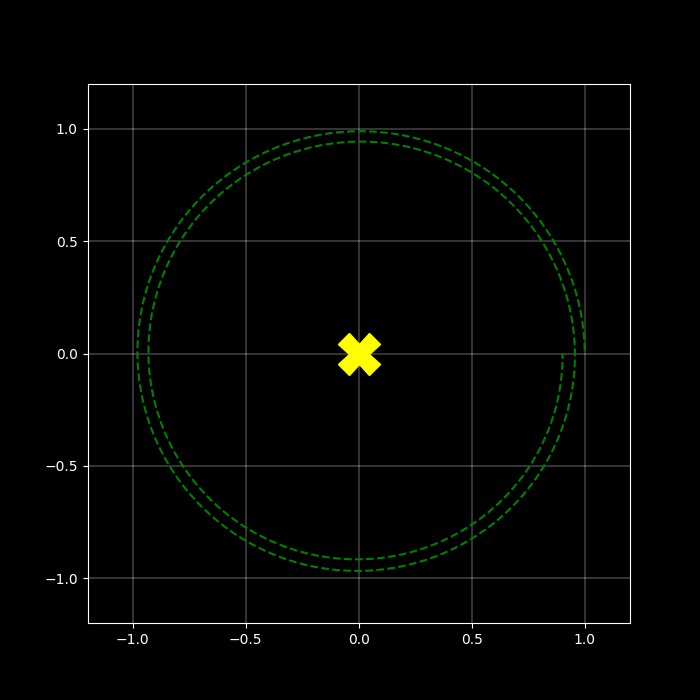
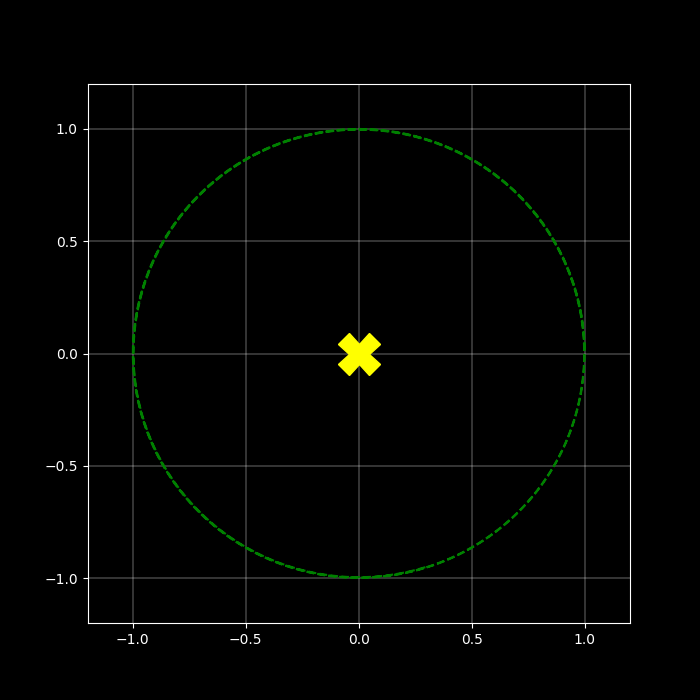
changed initial conditions

diff --git a/circular_orbit.py b/circular_orbit.py
@@ -4,7 +4,7 @@
 
 import numpy as np
 import matplotlib.pyplot as plt
-from matplotlib.animation import FuncAnimation, PillowWriter
+from matplotlib.animation import FuncAnimation
 from dataclasses import dataclass
 
 # constants
@@ -71,11 +71,14 @@ class Planet:
         # print('y_new: {}'.format(y_new))  # test
 
         # update position
-        self.pos.r = ((x_new ** 2) + (y_new ** 2)) ** (1 / 2)
+        self.pos.r = np.sqrt((x_new ** 2) + (y_new ** 2))
         # self.pos.phi = phi + (phi_dot * delta_t)  # not sure about this
         self.pos.phi = np.arctan2(y_new, x_new)  # see Wikipedia page on polar coordinates
 
-        return x_new, y_new
+        # I want to check something
+        speed = np.sqrt(vx_new ** 2 + vy_new ** 2)
+
+        return x_new, y_new, speed
 
 
 def main():
@@ -85,27 +88,32 @@ def main():
 
     # initialize the Earth
     earth_init_pos = Point(1.0, 0)  # remember this is in circular coordinates
-    earth_init_vel = Vector(0.0, 2 * pi)  # no radial velocity right now; only angular in rad/s
+    rad_vel = 0.0  # no radial velocity right now; only angular in rad/yr
+    phi_vel = 2.8 * pi  # chosen by trial and error
+    earth_init_vel = Vector(rad_vel, phi_vel)
     earth = Planet(earth_init_pos, earth_init_vel, step)
 
     xdata = []
     ydata = []
-    times = []
+    # speeds = []
+    # times = []
 
     t = 0  # initialize time
     for i in range(iterations):
-        x, y = earth.update()
+        x, y, speed = earth.update()
         xdata.append(x)
         ydata.append(y)
-        times.append(t)
+        # speeds.append(speed)  # test
+        # times.append(t)  # test
         t += step
 
     # test
-    plt.style.use('dark_background')
-    fig, ax = plt.subplots(figsize=(7, 7))
-    ax.plot(times, xdata)
-    ax.plot(times, ydata)
-    plt.show()
+    # plt.style.use('dark_background')
+    # fig, ax = plt.subplots(figsize=(7, 7))
+    # ax.plot(times, xdata)
+    # ax.plot(times, ydata)
+    # ax.plot(times, speeds)
+    # plt.show()
 
     # now animate
     plt.style.use('dark_background')
